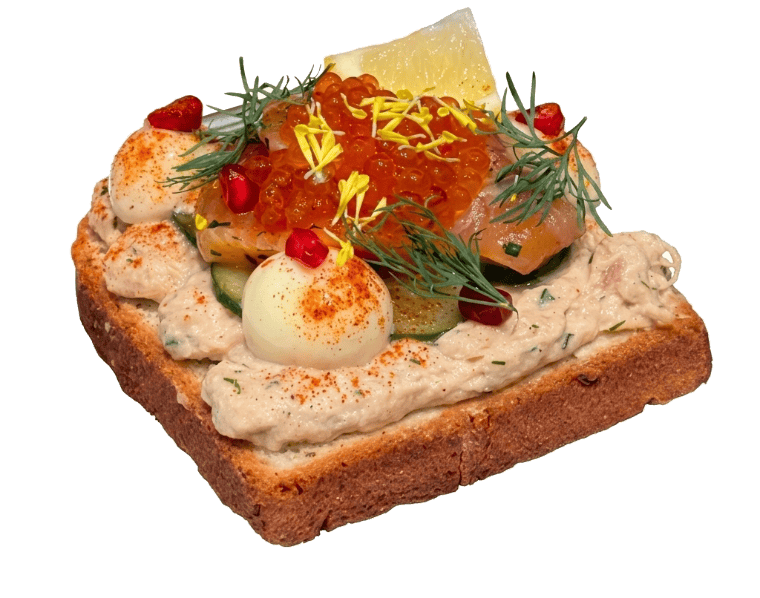
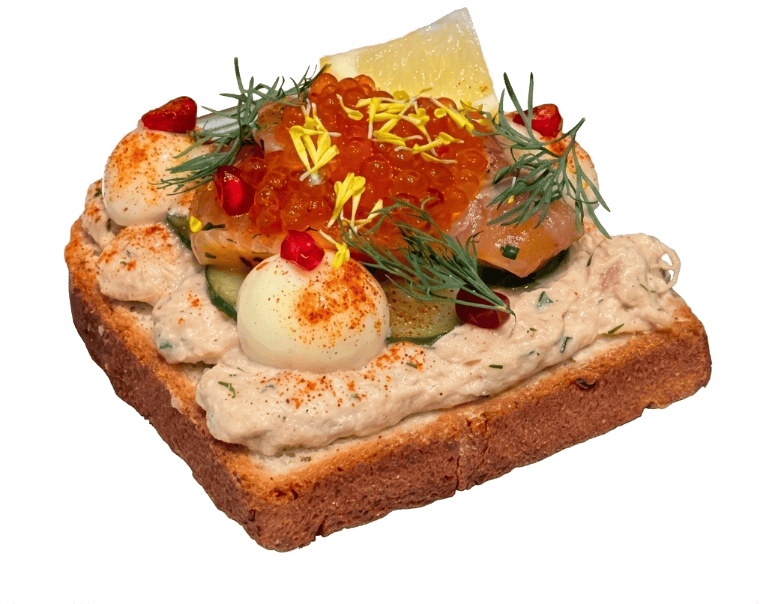
Slider: default to Salmon slide, reveal on scroll, fix remaining white gaps
1. Default slide is now Salmon (was Roast Beef) — swapped which
   <article>/dot carries is-active in the markup, and made the JS derive
   its starting index from the HTML's actual active slide instead of
   hardcoding 0, so the two can never drift out of sync again.
2. The panel's entrance choreography (ghost fade+scale, dish scale-up,
   garnish stagger, info slide-up) used to just be present from first
   paint, since the static HTML ships with a slide already `is-active`
   for no-JS/no-IntersectionObserver visitors. With JS running, that
   class is now stripped immediately and only re-added — playing the
   real transition — once #dishes actually scrolls into view (one-shot,
   same convention as the site's other scroll reveals). Reduced-motion
   is left untouched: the dish still shows immediately, matching how
   .reveal behaves elsewhere.
3. Recut all four dish PNGs again — the previous pass still left white
   pockets trapped between fine, sparse foliage (dill fronds, cress
   leaves, curly tendrils), because the old "trapped pocket" heuristic
   required a pocket to already border cleared transparency, and these
   gaps were often fully enclosed by opaque leaf pixels instead. Replaced
   it with a straightforward size rule: label every remaining near-white
   region after the border-flood, and clear any component below ~4200px
   regardless of what surrounds it — small enough to always be a gap in
[…]

diff --git a/site/index.html b/site/index.html
@@ -129,7 +129,7 @@
       <p class="dishes__eyebrow"><span class="eyebrow">Off the board</span></p>
 
       <div class="dishes__stage" id="dishes-stage">
-        <article class="dish is-active" data-dish="0" aria-roledescription="slide" aria-label="1 of 4: Roast Beef"
+        <article class="dish" data-dish="0" aria-roledescription="slide" aria-label="1 of 4: Roast Beef" aria-hidden="true"
                  style="--c1:#EAD2B0; --c2:#DBB081; --deep:#7A4A24;">
           <span class="dish__ghost" aria-hidden="true">Roast Beef</span>
           <div class="dish__garnish" aria-hidden="true">
@@ -148,7 +148,7 @@
           </div>
         </article>
 
-        <article class="dish" data-dish="1" aria-roledescription="slide" aria-label="2 of 4: Salmon, two ways" aria-hidden="true"
+        <article class="dish is-active" data-dish="1" aria-roledescription="slide" aria-label="2 of 4: Salmon, two ways"
                  style="--c1:#F4D5CD; --c2:#E9B2A8; --deep:#9E4E43;">
           <span class="dish__ghost" aria-hidden="true">Salmon</span>
           <div class="dish__garnish" aria-hidden="true">
@@ -158,7 +158,7 @@
             <img class="dish__g" src="assets/slider/garnish/pepper.png" alt="" style="--x:20%; --y:66%; --s:38px; --r:0deg; --d:0.4s;" />
             <img class="dish__g" src="assets/slider/garnish/dill.png" alt="" style="--x:88%; --y:46%; --s:56px; --r:120deg; --d:0.9s;" />
           </div>
-          <img class="dish__img" src="assets/slider/salmon.png" width="760" height="598" alt="OVERBRØD Salmon two-ways smørrebrød" loading="lazy" />
+          <img class="dish__img" src="assets/slider/salmon.png" width="760" height="604" alt="OVERBRØD Salmon two-ways smørrebrød" loading="lazy" />
           <div class="dish__info">
             <span class="eyebrow"><span class="dish__sig">Signature</span> · Sm<span class="o-slash">ø</span>rrebr<span class="o-slash">ø</span>d</span>
             <h3 class="dish__name">Salmon, Two Ways</h3>
@@ -177,7 +177,7 @@
             <img class="dish__g" src="assets/slider/garnish/rye.png" alt="" style="--x:22%; --y:68%; --s:60px; --r:-8deg; --d:0.5s;" />
             <img class="dish__g" src="assets/slider/garnish/pea.png" alt="" style="--x:12%; --y:50%; --s:50px; --r:30deg; --d:0.9s;" />
           </div>
-          <img class="dish__img" src="assets/slider/shrimp.png" width="759" height="760" alt="OVERBRØD Shrimp Skagen toast" loading="lazy" />
+          <img class="dish__img" src="assets/slider/shrimp.png" width="760" height="662" alt="OVERBRØD Shrimp Skagen toast" loading="lazy" />
           <div class="dish__info">
             <span class="eyebrow">Sm<span class="o-slash">ø</span>rrebr<span class="o-slash">ø</span>d</span>
             <h3 class="dish__name">Shrimp Skagen</h3>
@@ -209,8 +209,8 @@
       <div class="dishes__controls">
         <button type="button" class="dishes__arrow" data-dir="-1" aria-label="Previous dish">‹</button>
         <div class="dishes__dots" role="tablist" aria-label="Choose a dish">
-          <button type="button" class="dishes__dot is-active" data-to="0" role="tab" aria-selected="true" aria-label="Roast Beef"></button>
-          <button type="button" class="dishes__dot" data-to="1" role="tab" aria-selected="false" aria-label="Salmon, two ways"></button>
+          <button type="button" class="dishes__dot" data-to="0" role="tab" aria-selected="false" aria-label="Roast Beef"></button>
+          <button type="button" class="dishes__dot is-active" data-to="1" role="tab" aria-selected="true" aria-label="Salmon, two ways"></button>
           <button type="button" class="dishes__dot" data-to="2" role="tab" aria-selected="false" aria-label="Shrimp Skagen"></button>
           <button type="button" class="dishes__dot" data-to="3" role="tab" aria-selected="false" aria-label="The Shooting Star"></button>
         </div>

diff --git a/site/app.js b/site/app.js
@@ -1030,7 +1030,12 @@
     var prevBtn = $('.dishes__arrow[data-dir="-1"]');
     var nextBtn = $('.dishes__arrow[data-dir="1"]');
     var live = $(".dishes__live");
+    // derive the starting index from whichever slide is already marked
+    // active in the HTML, rather than assuming 0 — so the initially-shown
+    // dish (set purely by markup) and the JS's own tracking never drift
+    // out of sync with each other.
     var current = 0;
+    slides.forEach(function (s, i) { if (s.classList.contains("is-active")) current = i; });
 
     function go(i) {
       i = (i % slides.length + slides.length) % slides.length; // wrap
@@ -1084,6 +1089,34 @@
       dragging = false; stage.classList.remove("is-grabbing"); startX = null;
     });
     $$(".dish__img, .dish__g", stage).forEach(function (img) { img.setAttribute("draggable", "false"); });
+
+    // Reveal-on-scroll: the static markup ships with the first slide
+    // already `is-active` (so it's visible immediately with no JS/no
+    // IntersectionObserver), but that means its entrance transition has
+    // nothing to animate FROM — it's just present from first paint. So
+    // with JS running, strip that class right away and only play the
+    // choreographed entrance (ghost fade+scale, dish scale-up, garnish
+    // stagger, info slide-up — all keyed off .dish.is-active in CSS)
+    // once the section actually scrolls into view. One-shot, matching
+    // the .reveal convention used elsewhere on the site. Under reduced
+    // motion, skip this entirely and leave the slide shown immediately,
+    // same as how .reveal behaves there.
+    var section = document.getElementById("dishes");
+    var reduceMotion = window.matchMedia && window.matchMedia("(prefers-reduced-motion: reduce)").matches;
+    if (section && !reduceMotion && "IntersectionObserver" in window) {
+      var startSlide = slides[current];
+      startSlide.classList.remove("is-active");
+      startSlide.setAttribute("aria-hidden", "true");
+      var revealOnScroll = new IntersectionObserver(function (entries) {
+        entries.forEach(function (entry) {
+          if (!entry.isIntersecting) return;
+          startSlide.classList.add("is-active");
+          startSlide.setAttribute("aria-hidden", "false");
+          revealOnScroll.unobserve(entry.target);
+        });
+      }, { threshold: 0.35 });
+      revealOnScroll.observe(section);
+    }
   }
 
   /* ============================================================
